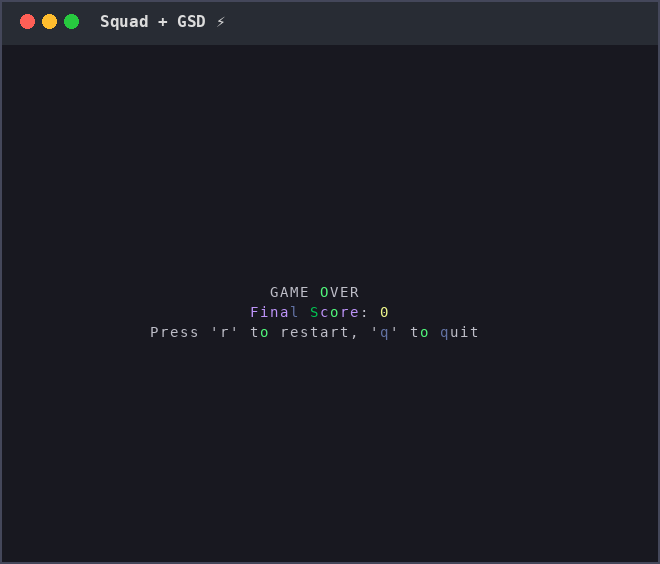
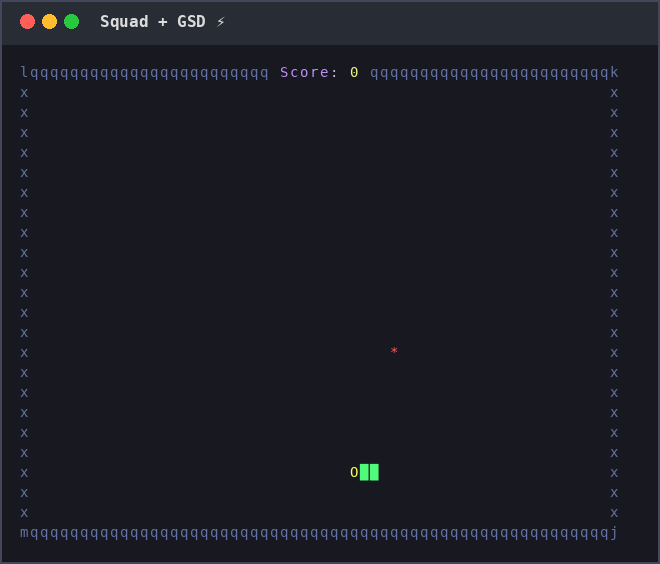
Better mid-game screenshots showing snake + food, fix remaining unicode bugs

diff --git a/capture.py b/capture.py
@@ -1,5 +1,5 @@
 #!/usr/bin/env python3
-"""Capture terminal screenshots of all 9 snake games - v2 with TERM fix."""
+"""Capture mid-game screenshots - v3. Slow tick, gentle movements, capture EARLY."""
 import subprocess
 import time
 import os
@@ -20,47 +20,62 @@ GAMES = [
 BASE = os.path.dirname(os.path.abspath(__file__))
 SCREENSHOT_DIR = os.path.join(BASE, "screenshots")
 os.makedirs(SCREENSHOT_DIR, exist_ok=True)
-
 SESSION = "snakecap"
+
+def send_key(key, delay=0.4):
+    subprocess.run(["tmux", "send-keys", "-t", SESSION, key], capture_output=True)
+    time.sleep(delay)
+
+def capture_pane():
+    r = subprocess.run(["tmux", "capture-pane", "-t", SESSION, "-p"], capture_output=True, text=True)
+    return r.stdout
 
 def capture_game(folder, label):
     game_path = os.path.join(BASE, folder, "snake.py")
     if not os.path.exists(game_path):
-        print(f"  SKIP {folder} - no snake.py")
         return None
 
     subprocess.run(["tmux", "kill-session", "-t", SESSION], capture_output=True)
-    time.sleep(0.3)
-
-    # Start tmux with TERM set
+    time.sleep(0.5)
     subprocess.run(["tmux", "new-session", "-d", "-s", SESSION, "-x", "60", "-y", "24"], capture_output=True)
     subprocess.run(["tmux", "send-keys", "-t", SESSION, f"TERM=xterm python3 {game_path}", "Enter"], capture_output=True)
-
     time.sleep(2)
 
-    # Move snake around
-    for key in ["Down", "Down", "Right", "Right", "Down"]:
-        subprocess.run(["tmux", "send-keys", "-t", SESSION, key], capture_output=True)
-        time.sleep(0.2)
+    # Gentle movement - just go down a few then right, capture mid-movement
+    # The snake starts roughly center moving right. Go down to avoid walls.
+    send_key("Down", 0.5)
+    send_key("Down", 0.5)
+    send_key("Down", 0.5)
 
-    time.sleep(0.5)
+    # Capture NOW - snake should be alive and visible
+    content = capture_pane()
 
-    result = subprocess.run(["tmux", "capture-pane", "-t", SESSION, "-p"], capture_output=True, text=True)
-    terminal_content = result.stdout
+    # Check if still alive, if yes do a few more moves
+    if 'GAME OVER' not in content.upper():
+        send_key("Right", 0.5)
+        send_key("Right", 0.5)
+        content = capture_pane()
+
+    if 'GAME OVER' not in content.upper():
+        send_key("Down", 0.5)
+        send_key("Left", 0.5)
+        send_key("Left", 0.5)
+        content = capture_pane()
+
     subprocess.run(["tmux", "kill-session", "-t", SESSION], capture_output=True)
 
-    # Filter out shell prompt lines
-    lines = terminal_content.split('\n')
-    game_lines = [l for l in lines if not l.startswith('nimanch@') and 'python3' not in l and '$' not in l[:3]]
+    # Filter shell artifacts
+    lines = content.split('\n')
+    filtered = [l for l in lines if 'nimanch@' not in l and '$ ' not in l[:5] and 'TERM=' not in l]
 
-    if not any(l.strip() for l in game_lines):
-        print(f"  EMPTY capture for {folder}")
+    if not any(l.strip() for l in filtered):
+        print(f"  EMPTY {folder}")
         return None
 
-    img = render_terminal('\n'.join(game_lines), label)
+    img = render_terminal('\n'.join(filtered), label)
     outpath = os.path.join(SCREENSHOT_DIR, f"{folder}.png")
     img.save(outpath)
-    print(f"  ✓ {folder} → {outpath}")
+    print(f"  ✓ {folder}")
     return outpath
 
 
@@ -68,6 +83,7 @@ def render_terminal(text, label):
     lines = text.split('\n')
     while len(lines) < 24:
         lines.append('')
+    lines = lines[:24]
 
     char_w, char_h = 10, 20
     padding = 20
@@ -85,29 +101,30 @@ def render_terminal(text, label):
         font = ImageFont.load_default()
         title_font = font
 
-    # Title bar with gradient feel
+    # macOS-style title bar
     draw.rectangle([0, 0, width, title_h], fill=(40, 44, 52))
-    # Fake window buttons
     for i, color in enumerate([(255, 95, 86), (255, 189, 46), (39, 201, 63)]):
         draw.ellipse([padding + i*22, 14, padding + i*22 + 14, 28], fill=color)
     draw.text((padding + 80, 12), label, fill=(220, 220, 220), font=title_font)
 
     y = title_h + padding
-    for line in lines[:24]:
+    for line in lines:
         x = padding
         for ch in line[:62]:
-            if ch in ('O', 'o'):
-                color = (80, 250, 123)  # green head
-            elif ch in ('\u2588', '#', 'S'):
-                color = (0, 200, 83)  # green body
-            elif ch in ('*', '@'):
+            if ch == 'O':
+                color = (255, 255, 100)  # bright yellow head
+            elif ch == '\u2588':
+                color = (80, 250, 123)  # green body
+            elif ch == '*':
                 color = (255, 85, 85)  # red food
-            elif ch in ('l', 'q', 'k', 'x', 'm', 'j', '+', '-', '|', '─', '│', '┌', '┐', '└', '┘'):
+            elif ch == '@':
+                color = (255, 121, 198)  # pink food
+            elif ch in ('┌', '┐', '└', '┘', '─', '│', 'l', 'q', 'k', 'x', 'm', 'j', '+', '-', '|'):
                 color = (98, 114, 164)  # dim blue borders
             elif ch.isdigit():
                 color = (241, 250, 140)  # yellow numbers
             elif 'Score' in line and ch.isalpha():
-                color = (189, 147, 249)  # purple for "Score"
+                color = (189, 147, 249)  # purple
             else:
                 color = (190, 190, 200)
             draw.text((x, y), ch, fill=color, font=font)
@@ -119,29 +136,26 @@ def render_terminal(text, label):
 
 
 if __name__ == '__main__':
-    print("Capturing screenshots of all 9 snake games...\n")
+    print("Capturing mid-game screenshots (slowed games)...\n")
     captured = []
     for folder, label in GAMES:
         print(f"[{label}]")
         path = capture_game(folder, label)
         if path:
             captured.append((label, path))
+        time.sleep(0.5)
 
     if captured:
-        print(f"\nCreating 3x3 composite grid ({len(captured)} games)...")
+        print(f"\nCreating 3x3 grid...")
         imgs = [Image.open(p) for _, p in captured]
         w, h = imgs[0].size
-
         cols, rows = 3, 3
         gap = 6
         grid = Image.new('RGB', (w * cols + gap * 4, h * rows + gap * 4), (16, 16, 24))
-
         for i, img in enumerate(imgs):
             r, c = divmod(i, cols)
             grid.paste(img, (c * w + gap * (c+1), r * h + gap * (r+1)))
-
         grid_path = os.path.join(SCREENSHOT_DIR, "all-games-grid.png")
         grid.save(grid_path, quality=95)
-        print(f"✓ Grid saved to {grid_path}")
-
+        print(f"✓ Grid saved")
     print("\nDone!")

diff --git a/deerflow-openspec/snake.py b/deerflow-openspec/snake.py
@@ -111,7 +111,7 @@ class Display:
         self.scr.erase()
         h, w = engine.h, engine.w
 
-        self.scr.border('│', '│', '─', '─', '┌', '┐', '└', '┘')
+        self.scr.border()
 
         s = f" Score: {engine.score} "
         self.scr.addstr(0, (w - len(s)) // 2, s, curses.A_BOLD)

diff --git a/deerflow-speckit/snake.py b/deerflow-speckit/snake.py
@@ -105,7 +105,7 @@ class SnakeGame:
         h, w = self.h, self.w
 
         # Border using curses built-in
-        self.scr.border('│', '│', '─', '─', '┌', '┐', '└', '┘')
+        self.scr.border()
 
         # Score
         s = f" Score: {score} "
